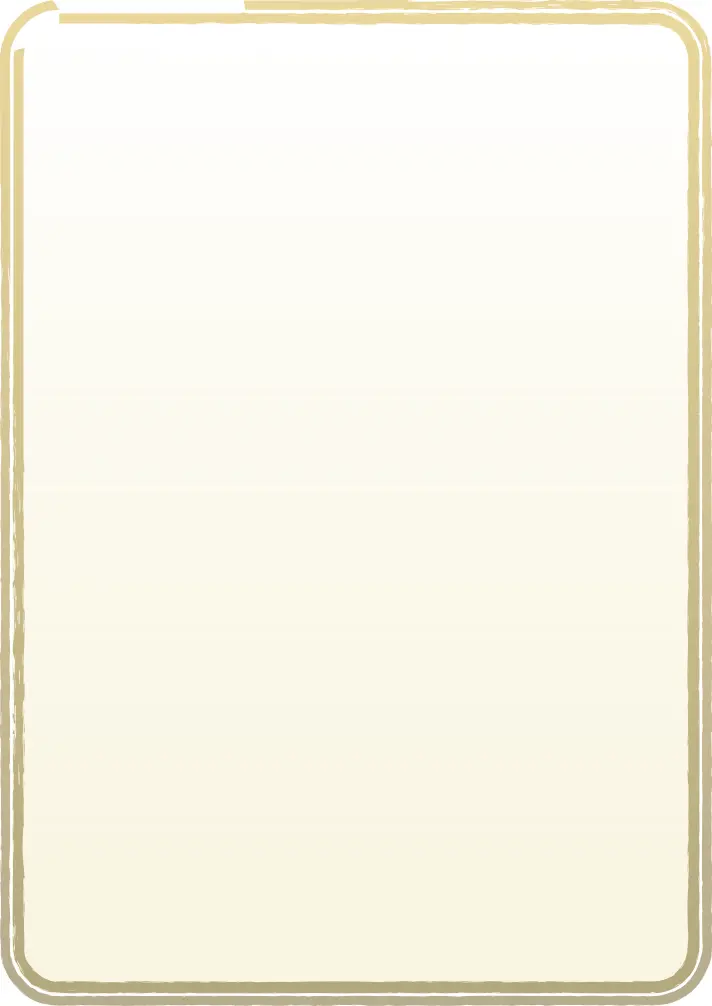
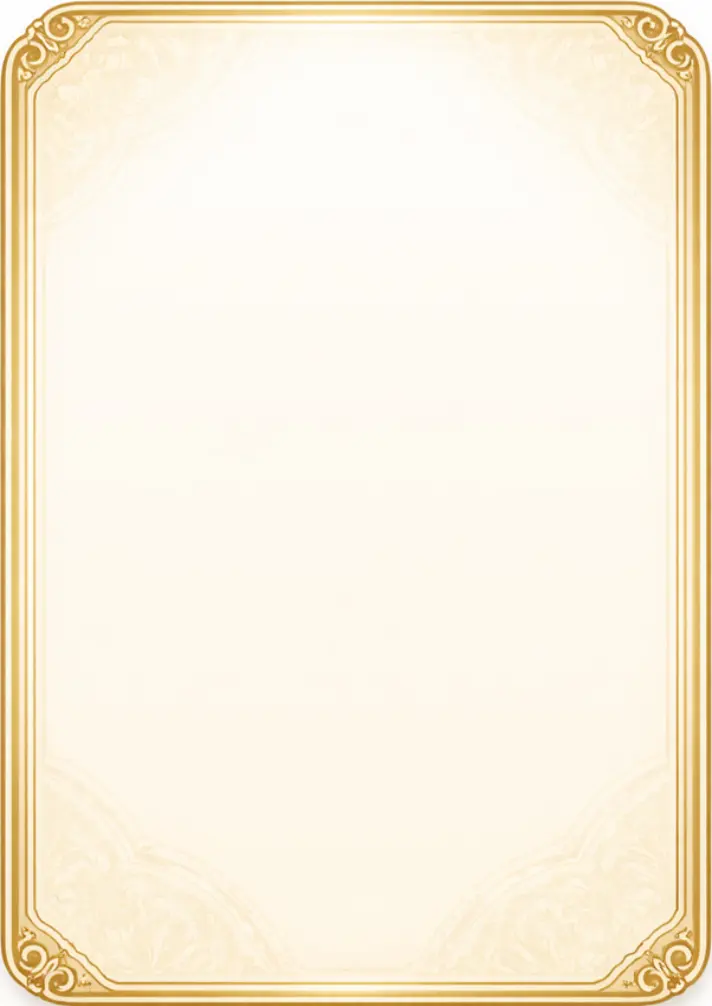
updated team card design

Changed region(s): [[0.0, 0.0, 1.0, 1.0]]

diff --git a/frontend/src/components/Team/Team.jsx b/frontend/src/components/Team/Team.jsx
@@ -4,7 +4,6 @@ import TeamCarousel from '@/utils/Team Carousel/TeamCarousel'
 
 export default function TeamComponent({ setLotusClass, setLotusStyle, setFigureClass, setFigureStyle }) {
 
-  /* ---------------- MOVE GLOBAL LOTUS NEXT TO "TEAM" ---------------- */
   useEffect(() => {
     if (!setLotusStyle || !setLotusClass) return;
 
@@ -40,7 +39,7 @@ export default function TeamComponent({ setLotusClass, setLotusStyle, setFigureC
     if (!setFigureClass || !setFigureStyle) return;
   
     setFigureStyle({
-      left: "0px",
+      left: "-20px",
       bottom: "0px",
       transform: "translate(10%, 10%)",
     });
@@ -61,14 +60,13 @@ export default function TeamComponent({ setLotusClass, setLotusStyle, setFigureC
 
   return (
     <>
-      {/* ---------------- DECORATIVE BACKGROUND ELEMENTS ---------------- */}
 
       <img
         src="/Team/feathers.webp"
         alt="Decorative Feathers"
         className="
           fixed z-[10] pointer-events-none
-          w-[400px] md:w-[500px] xl:w-[600px]
+          w-[325px] md:w-[425px] xl:w-[525px]
           bottom-0 right-0
           translate-x-[35%] translate-y-[35%]
           brightness-125 saturate-125
@@ -76,20 +74,6 @@ export default function TeamComponent({ setLotusClass, setLotusStyle, setFigureC
         "
       />
 
-      <img
-        src="/Team/peacock-shadow.webp"
-        alt="Peacock Shadow"
-        className="
-          fixed z-[9] pointer-events-none
-          w-[300px] md:w-[400px] xl:w-[550px]
-          bottom-0 left-0
-          translate-x-[-27%] translate-y-[15%]
-          brightness-125 saturate-125
-          transition-all duration-500 opacity-100
-        "
-      />
-
-      {/* ---------------- HEADING SECTION ---------------- */}
 
       <div className="px-6 mt-22 lg:pt-8 md:pt-4 md:pl-10 text-center md:text-left">
 
@@ -98,7 +82,6 @@ export default function TeamComponent({ setLotusClass, setLotusStyle, setFigureC
             TEAM
           </span>
 
-          {/* LOTUS ANCHOR — exact placement reference */}
           <span
             data-lotus-anchor
             className=" absolute right-[-2.5rem] md:right-[-3.5rem] lg:right-[-4.5rem] top-1/2 -translate-y-1/2 w-0 h-0"
@@ -109,15 +92,12 @@ export default function TeamComponent({ setLotusClass, setLotusStyle, setFigureC
           The passionate minds and dedicated leaders driving Invictus forward.
         </div>
 
-        {/* LOTUS ANCHOR — mobile between heading & carousel */}
         <span
           data-lotus-anchor-mobile
           className="block w-0 h-0 md:hidden"
         />
 
       </div>
-
-      {/* ---------------- TEAM CAROUSEL ---------------- */}
 
       <div className="relative w-full flex justify-center items-center overflow-hidden">
         <TeamCarousel />

diff --git a/frontend/src/utils/Team Carousel/CarouselCard.jsx b/frontend/src/utils/Team Carousel/CarouselCard.jsx
@@ -45,14 +45,14 @@ const CarouselCard = ({ personInfo, offset, isFlipped }) => {
         
         {/* front side of card */}
         <div 
-          className="absolute inset-0 w-full h-full rounded-2xl shadow-xl flex flex-col justify-center items-center"
+          className="absolute inset-0 w-full h-full rounded-t-[29px] rounded-b-3xl shadow-xl flex flex-col justify-center items-center"
           style={{ 
             backfaceVisibility: "hidden",
             backgroundImage: "url('/Team/card.webp')",
             backgroundSize: 'cover',
             backgroundPosition: 'center' }}>
 
-          <div className="h-32 sm:h-40 flex items-center justify-center ">
+          <div className="h-32 sm:h-40 flex flex-col items-center justify-end">
             <div className="w-20 h-20 sm:w-26 sm:h-26 rounded-full border-3 border-[#D4AF37]/60 brightness-105 saturate-125 
             flex items-center justify-center">
               
@@ -60,13 +60,20 @@ const CarouselCard = ({ personInfo, offset, isFlipped }) => {
                 backgroundImage: `url(${personInfo.avatar})`,
               }}></div>
             </div>
+            <div
+            className='w-40 h-4 mt-2'
+            style={{ 
+            backfaceVisibility: "hidden",
+            backgroundImage: "url('/Team/divider.svg')",
+            backgroundSize: 'cover',
+            backgroundPosition: 'center' }}></div>
           </div>
 
           <div className="text-center [font-family:'Montserrat',sans-serif] font-[900]">
-            <p className="bg-gradient-to-b from-[#D4AF37] to-[#6E5B1D] bg-clip-text text-[1.1em] sm:text-[1.4em] text-transparent">
+            <p className="bg-gradient-to-b from-[#D4AF37] to-[#6E5B1D] bg-clip-text text-[1em] sm:text-[1.3em] text-transparent">
               {personInfo.name}
             </p>
-            <p className="py-2 sm:py-3 text-black opacity-70 text-[0.9em] sm:text-[1.2em]">
+            <p className="py-2 sm:py-3 text-black opacity-70 text-[0.9em] sm:text-[1.1em]">
               {personInfo.designation}
             </p>
           </div>
@@ -95,7 +102,7 @@ const CarouselCard = ({ personInfo, offset, isFlipped }) => {
 
         {/* back side of card */}
         <div 
-          className="absolute inset-0 w-full h-full rounded-2xl bg-white border-3 border-[#D4AF37]/60 
+          className="absolute inset-0 w-full h-full rounded-2xl bg-white border-3 border-[#D4AF37]/60 rounded-[20px]
           shadow-xl flex items-center justify-center text-white"
           style={{ 
             backfaceVisibility: "hidden", 
